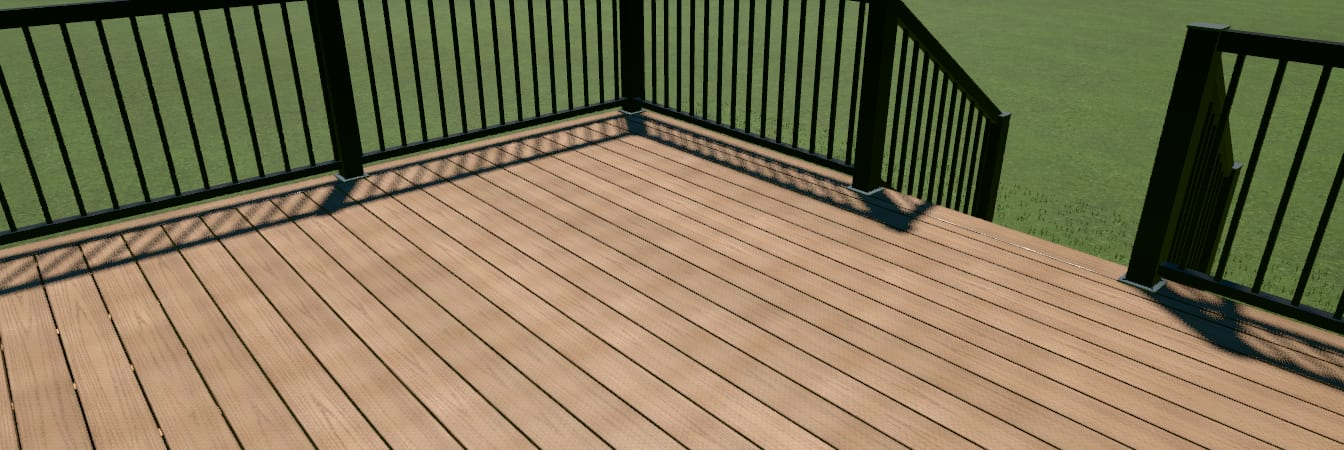
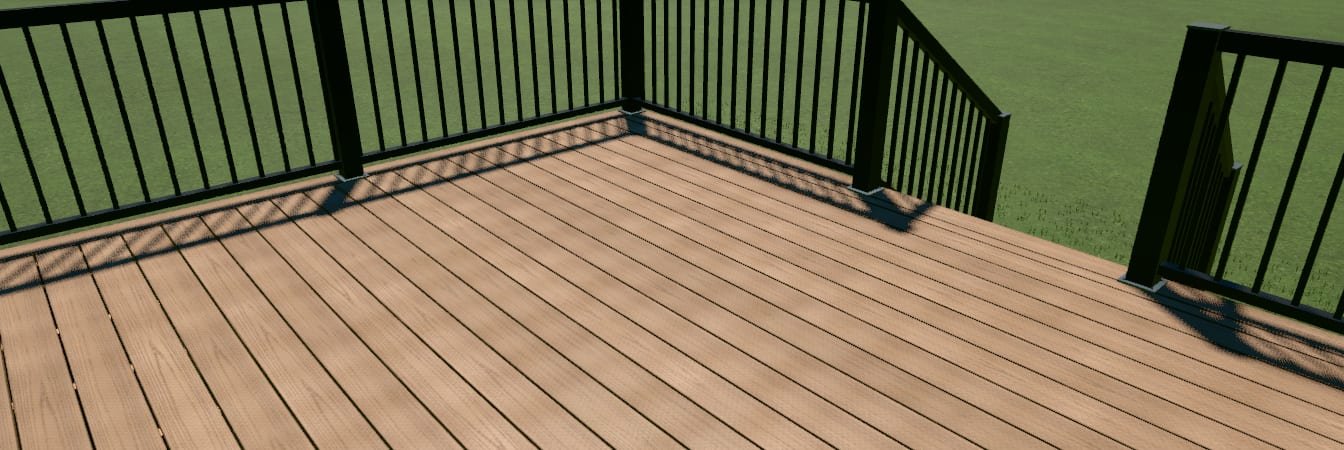
[golden-maple] docs: DeckCraft board realism final renders, Costa pair and critic rounds

diff --git a/docs/deckcraft/board-realism-2026-10/README.md b/docs/deckcraft/board-realism-2026-10/README.md
@@ -1,51 +1,77 @@
 # Deck board realism — before and after (2026-10-30)
 
 The owner installed the DeckCraft desktop app and said the deck "has horrible graphics": in 3D the boards read as one
-smooth slab. These are the default deck (TimberTech Harvest Brownstone) before and after branch
-`feat/deckcraft-board-realism`, at fixed cameras, from a local dev server on port 3011. The renders came from headless
-Edge on the RTX 5070 (ANGLE D3D11) at render quality `high` with Realistic look on.
+smooth slab. These renders compare branch `feat/deckcraft-board-realism` with main at fixed cameras:
+
+- the default deck (TimberTech Harvest Brownstone);
+- a Deckorators Voyage Costa deck.
+
+They came from a local dev server on port 3011, rendered by headless Edge on the RTX 5070 (ANGLE D3D11) at render
+quality `high`, with Realistic look on.
 
 | | Before (main 93e87831) | After |
 |---|---|---|
-| Corner preset | ![before corner](before-corner.jpg) | ![after corner](after-corner.jpg) |
-| Close deck view | ![before close](before-close.jpg) | ![after close](after-close.jpg) |
+| Harvest, Corner preset | ![](before-corner.jpg) | ![](after-corner.jpg) |
+| Harvest, close deck view | ![](before-close.jpg) | ![](after-close.jpg) |
+| Costa, Corner preset | ![](costa-before-corner.jpg) | ![](costa-after-corner.jpg) |
+| Costa, close deck view | ![](costa-before-close.jpg) | ![](costa-after-close.jpg) |
 
-The close camera is a saved camera, `{positionIn:[40,90,24], targetIn:[150,28,120], fov:38}`.
+The close camera is a saved camera: `{positionIn:[40,90,24], targetIn:[150,28,120], fov:38}`.
 
-## What changed
+## What changed (finished board pieces only)
 
-- The grain changes strip and offset every 48 in along a board, with a short crossfade. Long boards no longer repeat one
-  stretch of grain: the tile-to-tile correlation is −0.03, where one repeated strip scores 1.
-- Each board's long edges shade into the gap over about ¼ in. The line is never thinner than a pixel, and the shade is
-  normalised so the board's mean colour stays the product's. Board lines therefore hold in the Corner view.
-- Boards have a real ⅛ in eased edge, with 2 segments. Cut pieces such as mitres get the same bevel.
-- A near-black cavity sits under each decked level's outline, so the gaps read dark. It never sticks out past the deck
-  edge, takes no snow, and is invisible from under the deck.
-- The high tier reads swatch photos at up to 2048 px for its 2048 atlas.
-- Fascia, cladding, skirting, raised-bed timbers, stringers and the box-projected framing look exactly as before.
+- **One tone per board.** A board course keeps one strip of its photo for its whole length. Every 48 in the grain
+  slides to a new offset, with a short crossfade. Each board starts its tiles at its own seed, so the handovers never
+  line up across the deck. Grain correlation from one 48 in tile to the next is −0.03; a single repeated strip would be 1.
+- **Board edges.** The long edges shade into the gap over about ¼ in, and the shading is never thinner than one pixel.
+  The shade is mean-normalised, so the product colour is unchanged. The edge also goes matte inside that band.
+- **Shape.** Boards have a real ⅛ in eased edge, with 2 segments.
+- **Gaps.** A near-black cavity sits under each decked level's own outline. It:
+  - never shows past the deck edge;
+  - is left off boardless winder levels;
+  - is one-sided;
+  - takes no snow;
+  - lets clicks through.
+- **Photo handling.** The high render tier reads swatch photos at up to 2048 px. Board strips that the photo's edge
+  cuts short are dropped.
+- **Bundle.** The atlas builder now loads lazily for the main-thread fallback, so it leaves the 3D viewer chunk
+  (337.9/340 KB, down from 339.8).
+- **Unchanged:** fascia, cladding, skirting, raised-bed timbers, stringers and the box-projected framing look exactly as
+  before.
 
-## Blind critic scores
+## Blind critic scores (deck boards only, 1–10)
 
-Independent critics were not told which image was which. They scored only the deck boards, from 1 (smooth slab) to 10
-(photo).
+The critics were not told which image was which. Two critics (Opus and Sonnet) scored each round.
 
-| Round | Critic | Close: before → after | Corner: before → after |
-|---|---|---|---|
-| Final | deck-builder critic (Opus) | 6 → **7** | 6 → 5 |
-| Final | render critic (Sonnet) | 5 → **6** | 5 → 5 |
+| Final code | Close: before → after | Corner: before → after |
+|---|---|---|
+| Harvest, round 8 | 6 → 7, 6 → 7 | 5 → 5, 6 → 5 |
+| Harvest, round 9 (same code) | 7 → 6, 6 → 6 | 6 → 6, 5 → 5 |
+| Costa, round 9 | 6 → 7, 7 → 7 | 6 → 6, 5 → 5 |
 
-Both critics prefer the after image in the close view. In the Corner view one calls the pair a tie and the other
-prefers the before image. They read the stair tread border seams as an "inset outline", and the board lines alias into
-dots at a distance.
+The Harvest code is identical in rounds 8 and 9, so the scores move about ±1 by chance. On the default deck the code
+work alone is a small change, close to critic noise. What changes in the renders:
+- crisper, darker gap lines;
+- board lines that hold at mid distance;
+- no visible grain repeat along a board;
+- no tone patches within a board.
 
-Earlier rounds found two regressions, now fixed: a dark fringe under tread nosings and a cavity over winder treads.
+## Sharper photos: tried, measured, not used
 
-## What still holds it back
+With the owner's OK, 15 Deckorators colours were tried with Deckorators' own 1000–2000 px installed close-ups (cited
+URLs, mirrored, and colour-matched to the official chip within ΔE 0.6). Up close they rendered clearly worse than the
+official 600 px colour chips:
+- 4–5 against 7, across two critic rounds;
+- with the grain at its real scale (about 11 in per photo) and at the 48 in stretch alike;
+- critics' words included "motion-blurred static".
 
-Both critics say the grain is soft and low-contrast up close. The cause is the source photos, not the renderer:
-- 59 of 60 swatches are 600 px or smaller. The default Harvest swatch is 480 px.
-- TimberTech publishes nothing larger at board scale. Its 1000 px "Detail Swatch" photos are macro shots of about 3 in
-  of one board, so as board texture the grain would come out about 10× too big.
-- Deckorators publishes 1000–2000 px multi-board close-ups for 17 colours. Downloading them is waiting on the owner's OK.
+They were reverted. TimberTech publishes nothing larger at board scale: its 1000 px "Detail Swatch" photos are macro
+shots of about 3 in of one board.
 
-The check `check-deck-realism` keeps a low-res list that only shrinks as photos are replaced.
+## What still holds it back (critics' consensus)
+
+- **Grain:** soft and low-contrast up close. 59 of 60 swatches are 600 px or smaller.
+- **Rim, fascia and stairs:** read as flat slabs, with no board seams or butt joints.
+- **Aliasing:** gaps and the rim's top edge alias into dotted lines at mid distance. The rim-edge bead predates this
+  branch.
+- **Harvest colour:** a little uniform from board to board.
